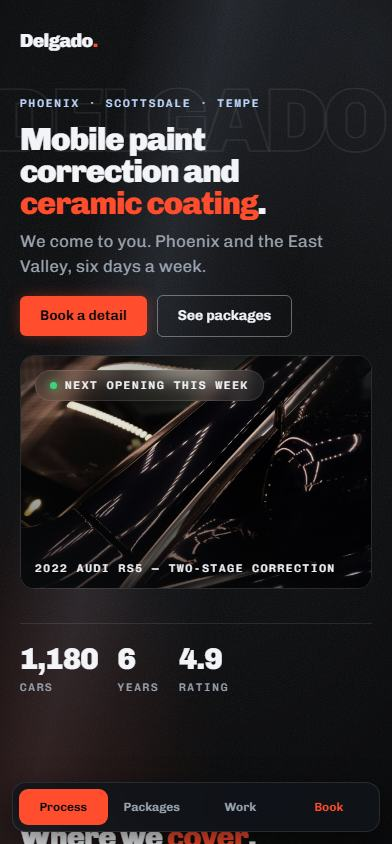
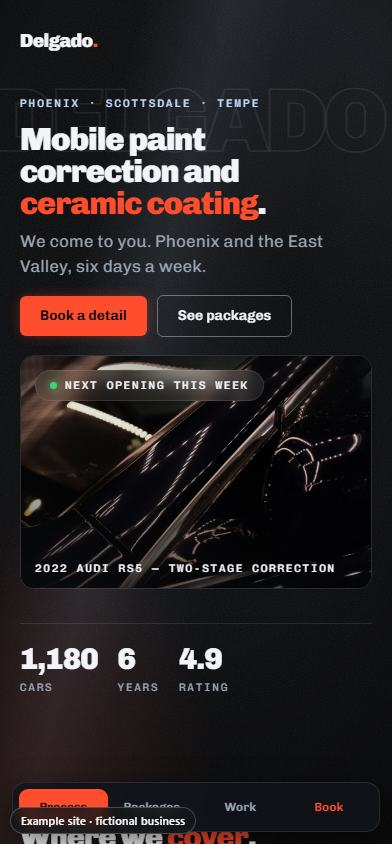
Real 404 for unknown paths, redirects for obvious guesses; label example sites as fictional (#34, #35) (#36)

Changed region(s): [[0.0306, 0.955, 0.4898, 1.0]]

diff --git a/docs/tenant-sites/v-goldenhour-work.html b/docs/tenant-sites/v-goldenhour-work.html
@@ -1314,7 +1314,7 @@ a:focus-visible,button:focus-visible{outline:3px solid var(--cobalt);outline-off
            driver&rsquo;s seat re-conditioned where it had gone shiny.</p>
         <blockquote data-from="get_public_business_profile.testimonials">&ldquo;On time, four hours in our driveway, and I could not
            find a single swirl afterwards. The seat looks new.&rdquo;
-          <cite><b>Marcus T.</b><span class="stars">&#9733;&#9733;&#9733;&#9733;&#9733;</span><span class="src">Google</span></cite>
+          <cite><b>Marcus T.</b><span class="stars">&#9733;&#9733;&#9733;&#9733;&#9733;</span><span class="src">Sample review</span></cite>
         </blockquote>
         <a class="jcta" href="v-goldenhour.html#book" data-book="full">Book a Full Detail</a>
       </div>
@@ -1334,7 +1334,7 @@ a:focus-visible,button:focus-visible{outline:3px solid var(--cobalt);outline-off
            Trim restored and sealed. Care card written for the owner.</p>
         <blockquote data-from="get_public_business_profile.testimonials">&ldquo;I have had this car since new and it has never looked
            like this. The wheels are the part I keep staring at.&rdquo;
-          <cite><b>Dana R.</b><span class="stars">&#9733;&#9733;&#9733;&#9733;&#9733;</span><span class="src">Google</span></cite>
+          <cite><b>Dana R.</b><span class="stars">&#9733;&#9733;&#9733;&#9733;&#9733;</span><span class="src">Sample review</span></cite>
         </blockquote>
         <a class="jcta" href="v-goldenhour.html#book" data-book="ceramic">Book a Ceramic Package</a>
       </div>
@@ -1354,7 +1354,7 @@ a:focus-visible,button:focus-visible{outline:3px solid var(--cobalt);outline-off
            touching the patina the owner asked us to leave alone.</p>
         <blockquote data-from="get_public_business_profile.testimonials">&ldquo;They asked first before doing anything to the chrome.
            Nobody else has ever asked.&rdquo;
-          <cite><b>Peter H.</b><span class="stars">&#9733;&#9733;&#9733;&#9733;&#9733;</span><span class="src">Google</span></cite>
+          <cite><b>Peter H.</b><span class="stars">&#9733;&#9733;&#9733;&#9733;&#9733;</span><span class="src">Sample review</span></cite>
         </blockquote>
         <a class="jcta" href="v-goldenhour.html#book" data-book="full">Book a Full Detail</a>
       </div>

diff --git a/docs/tenant-sites/z-tampabay.html b/docs/tenant-sites/z-tampabay.html
@@ -592,7 +592,7 @@ footer a:hover{color:var(--ink)}
           <a class="btn" href="#book">Book a detail</a>
           <span class="chip"><i class="dot"></i>Booking next week</span>
           <span class="chip">Licensed &amp; insured &middot; Florida</span>
-          <span class="rating"><b>4.9</b><i>from 82<br>reviews</i></span>
+          <span class="rating"><b>4.9</b><i>sample<br>rating</i></span>
         </div>
       </div>
       <a class="glasscard" href="#coating">
@@ -612,7 +612,7 @@ footer a:hover{color:var(--ink)}
       <div><span class="disp">1,200+</span><span class="cap">Vehicles detailed</span></div>
       <div><span class="disp">9</span><span class="cap">Years on the road</span></div>
       <div><span class="disp">14</span><span class="cap">Towns we cover</span></div>
-      <div><span class="disp">4.9</span><span class="cap">From 82 reviews</span></div>
+      <div><span class="disp">4.9</span><span class="cap">Sample rating</span></div>
     </div>
   </div>
 </section>
@@ -804,7 +804,7 @@ footer a:hover{color:var(--ink)}
      review read as real. -->
 <section data-rv>
   <div class="wrap">
-    <span class="cap">4.9 from 82 reviews</span>
+    <span class="cap">Sample reviews</span>
     <h2 style="margin-top:12px">Reviews.</h2>
     <div class="revs">
       <div class="rev"><span class="stars">&#9733;&#9733;&#9733;&#9733;&#9733;</span>

diff --git a/docs/tenant-sites/w-delgado.html b/docs/tenant-sites/w-delgado.html
@@ -951,8 +951,7 @@ details p{padding:0 16px 15px;color:var(--fg2);font-size:14px;margin:0;max-width
     <div class="wrap">
       <p class="m m--q">What people say</p>
       <h2 id="rv-h" style="font-size:clamp(26px,4vw,42px)">
-        <span data-from="testimonials">4.9</span> from
-        <span data-from="testimonials">312</span> <em>reviews</em>.</h2>
+        Sample <em>reviews</em>.</h2>
       <div class="rail" data-from="testimonials">
         <blockquote class="panel q">
           <span class="stars" aria-hidden="true">★★★★★</span>
@@ -1176,7 +1175,7 @@ details p{padding:0 16px 15px;color:var(--fg2);font-size:14px;margin:0;max-width
         <!-- C4 · the proof sits INSIDE the form, at the moment of commitment. -->
         <p class="bookproof" data-from="testimonials">
           <span class="stars" aria-hidden="true">★★★★★</span>
-          <b style="color:var(--fg)">4.9</b> from <b style="color:var(--fg)">312</b> reviews
+          Sample reviews, not real customers
         </p>
       </div>
     </div>

diff --git a/app/src/landing/LandingPage.jsx b/app/src/landing/LandingPage.jsx
@@ -730,11 +730,11 @@ export default function LandingPage() {
             <span className="lab" data-rv="">What gets built</span>
             <h2 className="disp" id="wallh" style={{ marginTop: 12 }}>
               <span className="mask"><span>Every one of these</span></span>
-              <span className="mask" style={{ "--i": 1 }}><span>was built for one person.</span></span>
+              <span className="mask" style={{ "--i": 1 }}><span>is an example site.</span></span>
             </h2>
             <p className="lede" data-rv="" style={{ "--i": 2 }}>
-              Yours will be too. A site designed around the work you actually
-              do, the booking page living inside it, and the screen you run
+              Made-up detailers, so you can see the range. Yours is built around
+              the work you actually do: a site designed around you, the booking page living inside it, and the screen you run
               the week from. Not a template with your name dropped into it.
             </p>
           </div>

diff --git a/docs/tenant-sites/y-kinzie.html b/docs/tenant-sites/y-kinzie.html
@@ -875,7 +875,7 @@ h2 em{font-style:normal;color:var(--accent-text)}
     </div>
     <!-- C3 · three figures, and deliberately three DIFFERENT kinds of thing -->
     <div class="trust" data-in style="--i:5">
-      <div><b>212</b><span>Google reviews</span></div>
+      <div><b>5.0</b><span>Sample rating</span></div>
       <div><b>6+ hrs</b><span>Maintenance visit</span></div>
       <div><b>CERTIFIED</b><span>Film installer</span></div>
     </div>
@@ -1463,7 +1463,7 @@ h2 em{font-style:normal;color:var(--accent-text)}
         <h4>Elsewhere</h4>
         <ul>
           <li><a href="#top">Instagram</a></li>
-          <li><a href="#top">Google reviews</a></li>
+          <li><a href="#top">Reviews</a></li>
           <li><a href="#book">Gift a detail</a></li>
         </ul>
       </div>

diff --git a/docs/tenant-sites/x-ballantyne.html b/docs/tenant-sites/x-ballantyne.html
@@ -763,7 +763,7 @@ footer{padding:0 0 0;position:relative;overflow:hidden}
             two scratches I had not seen, told me which one would not come out, and
             then it did. Paid after, on the drive.&rdquo;</blockquote>
           <div class="who"><span class="av">DR</span>
-            <div><b>Dana R.</b><span>Ford Mustang GT &middot; Google review</span></div>
+            <div><b>Dana R.</b><span>Ford Mustang GT &middot; Sample review</span></div>
           </div>
           <div class="did">
             <span class="tagl">Two-step correction</span>
